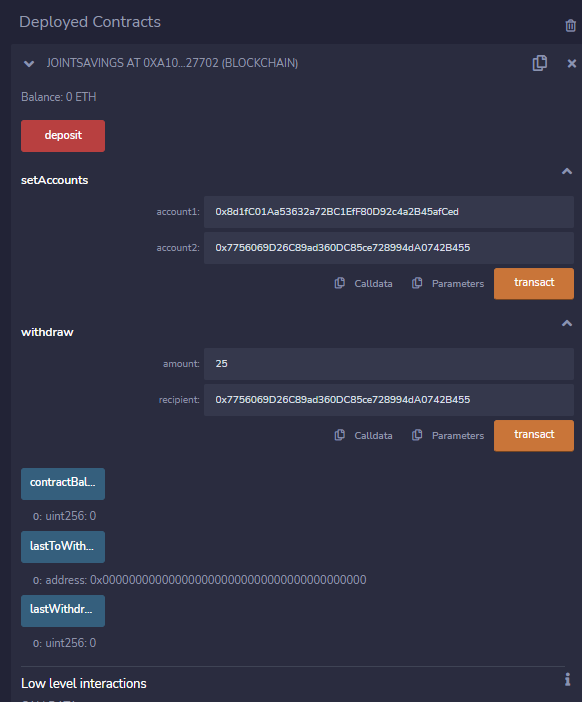
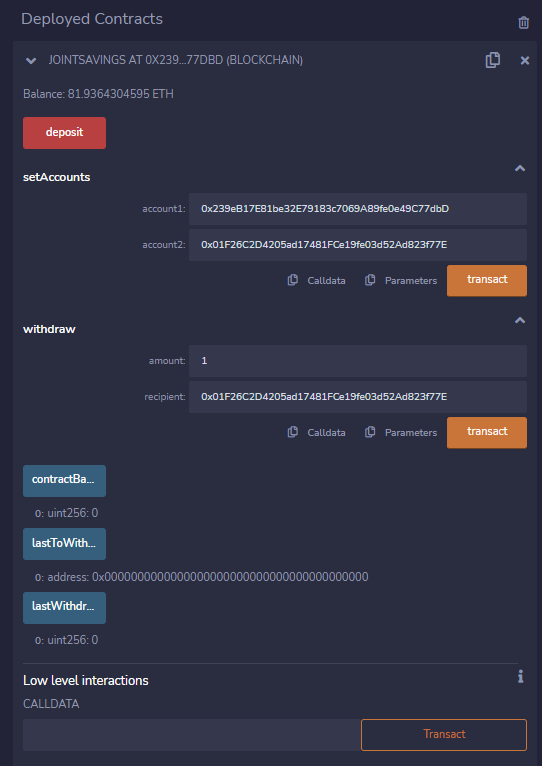
updated v.2.1

diff --git a/README.md b/README.md
@@ -42,29 +42,34 @@ Solidity smart contract designed to transfer ETHER between 2 accounts under the 
 
 ---
 <!--Demo -->
-### Ganache - Note initial balances
+### Ganache - Note initial balances (on test account v.1.1)
 ![ganache](images/ganache.png)
-### Contract set up - before deployment
+### Contract set up - before deployment (on test account v.1.1)
 ![contract1](images/contract1.png)
-### Solidity - Transaction Record after deployment
+### Solidity - Transaction Record after deployment (on test account v.1.1)
 ![deploy](images/deploy.png)
-### Ganache Transaction Record
-![deployed](images/deployed.png)
-### Solidity: Contract account set up
+### Solidity: Contract account set up (on test account v.1.1)
 ![before_transact](images/before_transact.png)
-### Ganache Transaction Record after set up
+
+### UPDATED CODE - V.2.1 (Jan 5th 2023)
+### Ganache Contract Deployed and Transaction Records
+### V.2.1
 ![deployed](images/deployed.png)
-### Validated Record (See Validated Transaction Hash)
-![transacted](images/transacted.png)
-### Ganache: Transfered Funds - Acc# 1 Deducted
-![transfered](images/transfered.png)
-### Solidity: Verified Transaction
-![verify](images/verify.png)
+### Solidy: Transaction Hash - Confirm Transfer of 1 ETHER
+### V.2.1
+![transfered](images/transaction_verified.png)
+### Ganache: Transfered Funds (1 Ether) - Acc 2 to Acc 1
+### V.2.1
+![verify](images/fund_transfer_verified.png)
 ---
 <!--Version Release -->
 ## Version Release
 
-### Version 1.2
+### Version 2.1
+-   Updated Solidity Code - README.md - Tested Balances
+-   Tested 1/5/23
+
+### Version 1.2 DEPRECATED
 -   Updated code, fixed error message with web-3
 -   Tested 12/31/22
 
